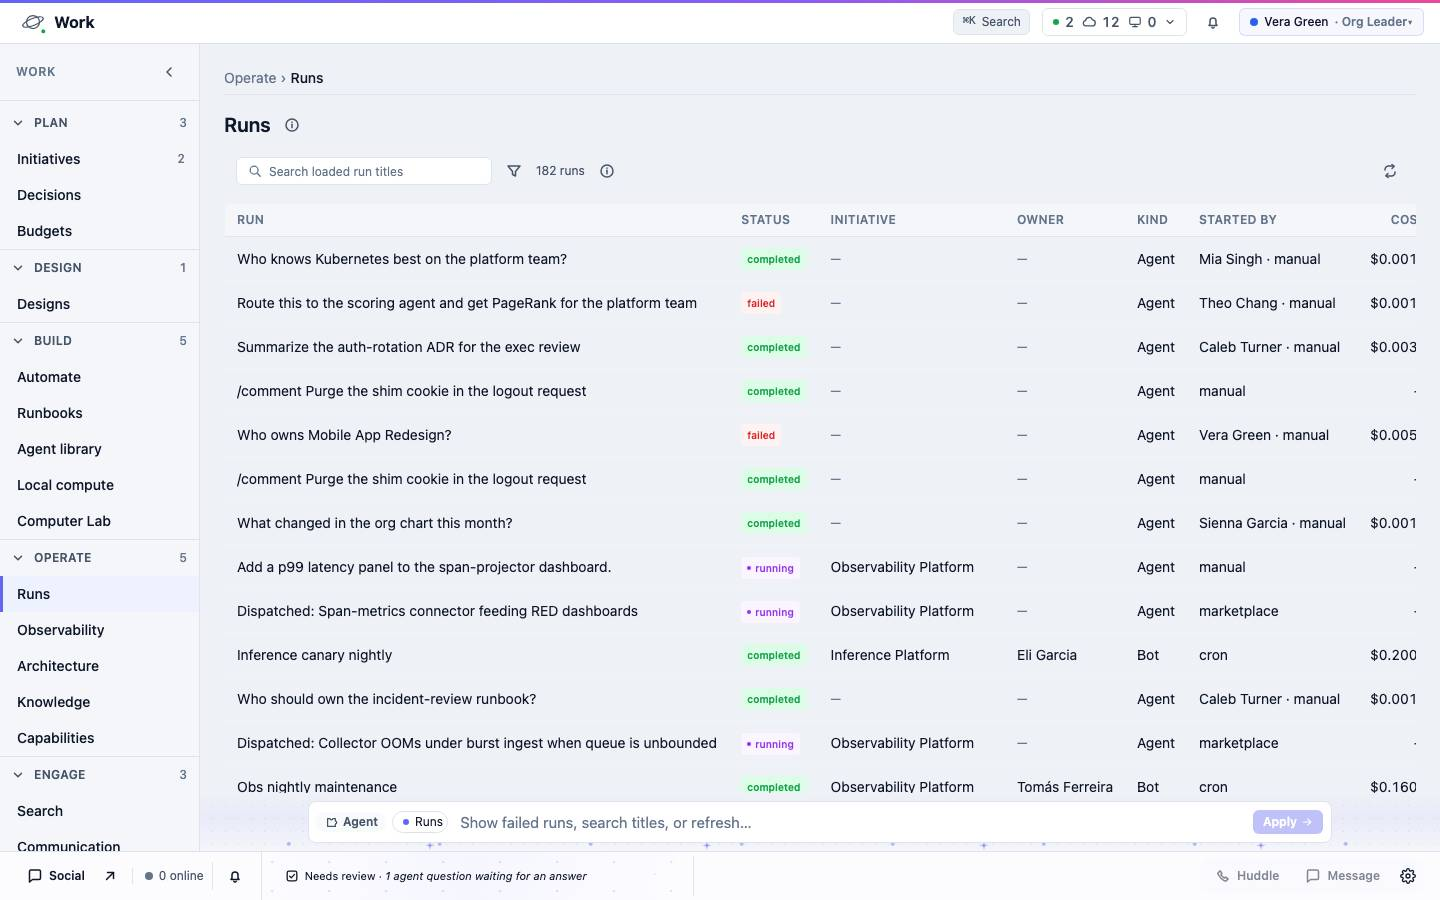
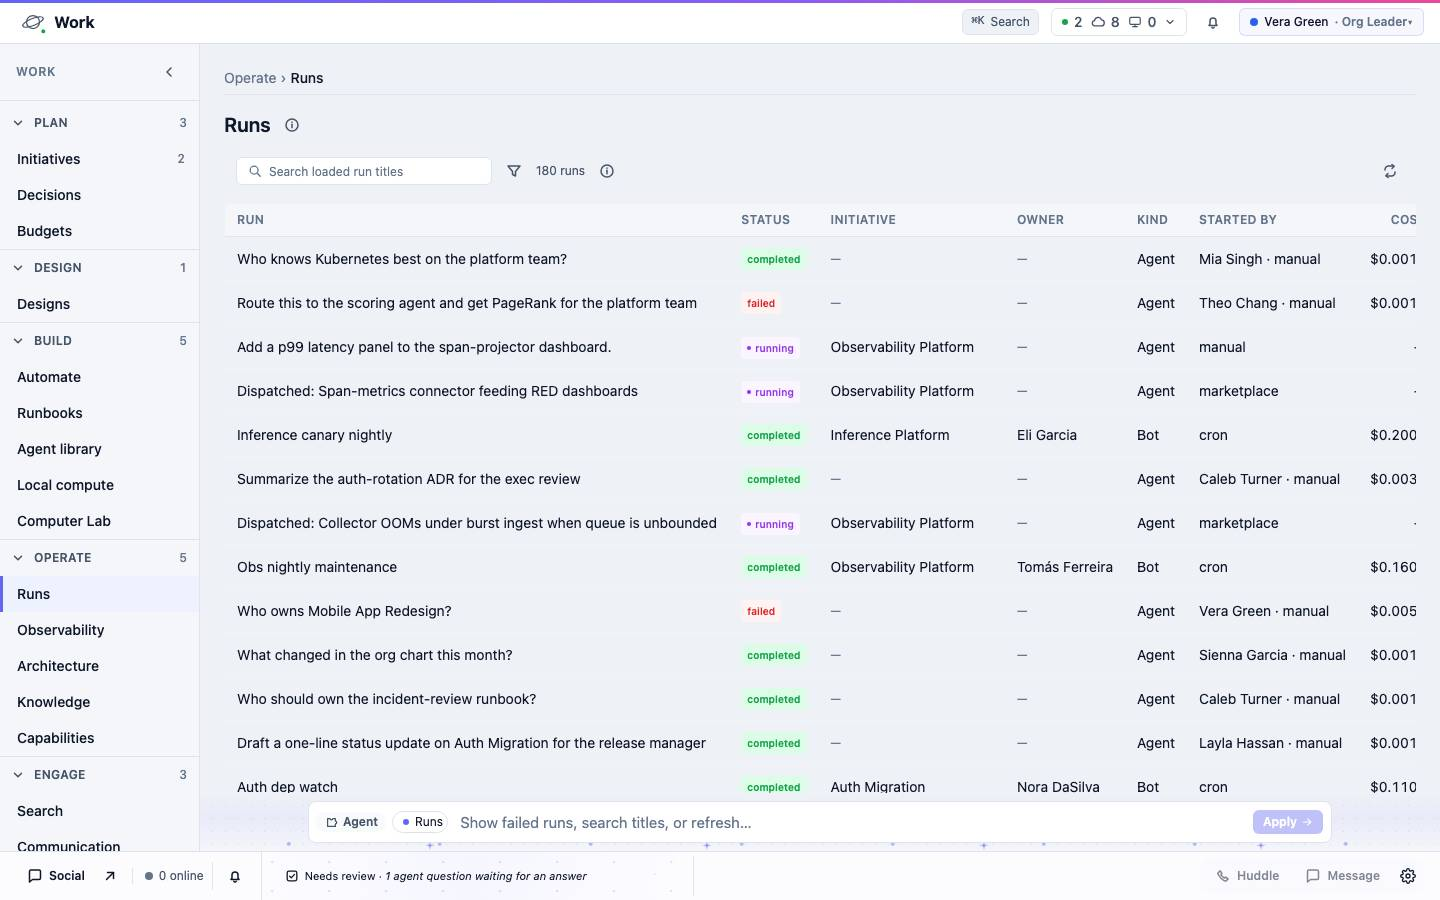
Live agent-run relay keeps scoped runs in their scope
A /comment run a scoped walk started was held in the in-memory live relay
for every reader, so another walk's empty world listed "2 runs" instead of
"No runs recorded yet". Each relayed run now remembers the dev:mock scope it
started in and is listed only there (production has no scope; nothing
changes). Test in pipeline-runs.agent.test.ts. The runs maps open a seeded
run (a live relayed run at the top of the ledger keeps ticking and never
measures still); program-owner change review expects the queue's 403 on
the way back.

diff --git a/docs/journeys/maps/work/_admin.ts b/docs/journeys/maps/work/_admin.ts
@@ -38,9 +38,9 @@ export function runs(_role: Role): Step[] {
     click(btn('Filters'), 'Open Filters again to clear them', { visible: [btn('Clear filters')] }),
     click(btn('Clear filters'), 'Clear filters: every run is back and the header count is in the hundreds again', { visible: [seen(/^\d{3} runs$/)], count: [{ target: tableRows, min: 20 }] }),
     fill(search('Search loaded run titles'), 'auth-rotation', 'Search auth-rotation: the ADR summaries stay', { visible: [seen('Summarize the auth-rotation ADR for the exec review')], count: [{ target: tableRows, min: 1 }] }, { state: 'filtered', proves: 'empty-state' }),
-    fill(search('Search loaded run titles'), '', 'Clear the search: the rows come back', { count: [{ target: tableRows, min: 20 }] }),
-    press('Enter', 'Enter on the first run opens its record', { url: /^\/iq\/runs\/[^/]+$/, visible: [h1('Run')] }, { target: firstRow, state: 'row-open', proves: 'keyboard' }),
-    back('Browser Back returns to the ledger', { url: '/iq/runs', visible: [h1('Runs')] }),
+    // Enter while the search holds the seeded ADR runs: a live relayed run at the top of the full ledger keeps ticking, so its record never measures still.
+    press('Enter', 'Enter on the first auth-rotation run opens its record', { url: /^\/iq\/runs\/[^/]+$/, visible: [h1('Run'), seen(/auth-rotation/)] }, { target: firstRow, state: 'row-open', proves: 'keyboard' }),
+    back('Browser Back returns to the ledger', { url: /^\/iq\/runs(?:\?.*)?$/, visible: [h1('Runs')] }),
     open('/iq/runs/job:job-obs-maint-1', 'Open the nightly maintenance run: who ran it, what it cost and its steps, by name', {
       url: '/iq/runs/job:job-obs-maint-1', visible: [h1('Run'), seen('Obs nightly maintenance'), seen('completed'), tabNamed('Run'), tabNamed('Brief'), seen('Steps')],
       count: [{ target: tableRows, min: 5 }], ...selected(tabNamed('Run')),

diff --git a/middleware/src/lib/agent-runs-live.ts b/middleware/src/lib/agent-runs-live.ts
@@ -18,6 +18,7 @@
 // one process's view is the whole view.
 
 import type { AgentStepRecord, LiveAgentRunSource } from './pipeline-runs.js';
+import { currentMockScope } from '../mock/core/scope.js';
 
 const MAX_RUNS = 200;
 
@@ -94,7 +95,15 @@ export class AguiStepRecorder {
 interface LiveRun {
   source: Omit<LiveAgentRunSource, 'steps'>;
   recorder: AguiStepRecorder;
+  /** The dev:mock scope the run started in (null outside one, and always in production). */
+  scope: string | null;
 }
+
+// A run relayed inside a request-scoped mock world belongs to that world: the
+// shared mock never lists it and another scope never sees it (a scoped walk's
+// /comment run used to appear under an empty scope's "no runs" —
+// docs/work-journeys-goal.md). Outside dev:mock there is no scope, so nothing changes.
+const scopeNow = (): string | null => currentMockScope()?.id ?? null;
 
 const runs = new Map<string, LiveRun>();
 
@@ -108,6 +117,7 @@ export function openAgentRun(init: {
     source: { ...init, prompt: init.prompt ? init.prompt.slice(0, 500) : null,
       startedAt: init.startedAt ?? new Date().toISOString(), status: 'running', finishedAt: null, error: null },
     recorder: new AguiStepRecorder(),
+    scope: scopeNow(),
   });
   while (runs.size > MAX_RUNS) {
     const oldest = runs.keys().next().value;
@@ -131,7 +141,8 @@ export function closeAgentRun(runId: string, outcome: 'completed' | 'failed', er
 
 /** The relayed runs, newest first, for the projection. */
 export function liveAgentRuns(): LiveAgentRunSource[] {
-  return [...runs.values()].reverse().map((r) => ({ ...r.source, steps: r.recorder.snapshot() }));
+  const scope = scopeNow();
+  return [...runs.values()].filter((r) => r.scope === scope).reverse().map((r) => ({ ...r.source, steps: r.recorder.snapshot() }));
 }
 
 /** Tests only. */

diff --git a/docs/journeys/maps/work/_po.ts b/docs/journeys/maps/work/_po.ts
@@ -35,7 +35,7 @@ export function poChangesReview(): JourneyMap {
     tabClick(queue, 'Click the Review queue tab (the only tab this role has): it stays selected and the header and tab strip stay put', { ...selected(queue), visible: [DENIED] }, strip(), { proves: ['tab-stability', 'role-gating'] }),
     { do: 'wait', target: { role: 'tablist' }, name: 'There is no Policies tab for this role: governance rules need ManageDevbox', proves: 'role-gating', expect: { absent: [tabNamed('Policies')], visible: [queue] } } as Step,
     open('/admin/changes/00000000-0000-0000-0000-000000000000', 'A change opened by its link is refused too: the page says this role cannot review it, with no diff and no Approve or Reject', { visible: [h1('Change review'), seen('You cannot review this change'), { role: 'button', name: 'Back to the queue' }], absent: [{ role: 'button', name: 'Approve' }, { role: 'button', name: 'Reject' }] }, { state: 'row-open', proves: 'empty-state', expectConsole: /403|404|Forbidden|Not Found/ }),
-    press('Enter', 'Enter on Back to the queue returns to the queue page', { url: '/admin/changes', visible: [h1('Changes'), DENIED] }, { target: { role: 'button', name: 'Back to the queue' }, proves: 'keyboard' }),
+    press('Enter', 'Enter on Back to the queue returns to the queue page', { url: '/admin/changes', visible: [h1('Changes'), DENIED] }, { target: { role: 'button', name: 'Back to the queue' }, proves: 'keyboard', expectConsole: /403|Forbidden/ }),
     tabWalk(6),
     scoped({ scenario: 'empty', fixture: 'sdlc-changes' }, '/admin/changes', 'In a world with no changes the page still says the queue is unreadable: the denial comes before the data', 'empty', { visible: [DENIED] }, { expectConsole: /403|Forbidden/ }),
   ]);

diff --git a/middleware/src/lib/__tests__/pipeline-runs.agent.test.ts b/middleware/src/lib/__tests__/pipeline-runs.agent.test.ts
@@ -258,3 +258,17 @@ describe('normalizeAgentSteps — the bundle is agent output, checked not truste
     expect(normalizeAgentSteps(JSON.stringify(STEPS))).toHaveLength(2);
   });
 });
+
+describe('the live relay and mock scopes', () => {
+  it('lists a run only in the scope it started in (the shared world never sees a scoped run)', async () => {
+    const live = await import('../agent-runs-live.js');
+    const scopeMod = await import('../../mock/core/scope.js');
+    live._resetLiveAgentRunsForTest();
+    const scope = scopeMod.createMockScope({ scenario: 'empty' } as never);
+    scopeMod.runInMockScope(scope, () => live.openAgentRun({ runId: 'r-scoped', threadId: null, agentId: 'a', agentName: 'A', userId: null, tenant: 'orgiq', prompt: null }));
+    live.openAgentRun({ runId: 'r-shared', threadId: null, agentId: 'a', agentName: 'A', userId: null, tenant: 'orgiq', prompt: null });
+    expect(live.liveAgentRuns().map((r) => r.runId)).toEqual(['r-shared']);
+    expect(scopeMod.runInMockScope(scope, () => live.liveAgentRuns().map((r) => r.runId))).toEqual(['r-scoped']);
+    live._resetLiveAgentRunsForTest();
+  });
+});

diff --git a/docs/work-journeys/org-leader/runs.md b/docs/work-journeys/org-leader/runs.md
@@ -1,21 +1,21 @@
 surface: runs
 role: org-leader
 user: u-vera (Vera Green, owner of Auth Migration)
-url: /iq/runs; /iq/runs/agent-run%3A79eed77e-7aee-4911-a7ee-d45878eed5eb; /iq/runs/job:job-obs-maint-1; /iq/runs/job:job-obs-maint-1?tab=brief; /iq/runs/nope
+url: /iq/runs; /iq/runs/agent-run%3A987dfeaf-977d-4d1c-aa7e-01d5997e0042; /iq/runs/job:job-obs-maint-1; /iq/runs/job:job-obs-maint-1?tab=brief; /iq/runs/nope
 map: docs/journeys/maps/work/org-leader/runs.ts
 pages: portal/src/pages/iq/RunsPage.tsx, portal/src/components/runs/RunsLedger.tsx, portal/src/pages/pipelines/RunDetailPage.tsx
-audited: 2026-10-16 04:19–04:20 local, Chromium 148.0.7778.96 1440x900 (scripts/journeys/run-maps.mjs: Playwright headless, a fresh context signed in through portal/e2e/realSession.ts as clone u-vera-clone-98243966), scenario: the shared mock, read-only (every non-GET the page sent was blocked), middleware dev:mock :3001, Vite :5183, ui-components 2.458.2
-session: /api/session/me sub u-vera-clone-98243966, tenant orgiq, role org-leader, grants {"orgiq":["org-leader","member"],"social":["participant"],"access":["approver"]}
+audited: 2026-10-16 04:32–04:32 local, Chromium 148.0.7778.96 1440x900 (scripts/journeys/run-maps.mjs: Playwright headless, a fresh context signed in through portal/e2e/realSession.ts as clone u-vera-clone-9cf8cfc2), scenario: the shared mock, read-only (every non-GET the page sent was blocked), middleware dev:mock :3001, Vite :5183, ui-components 2.460.1
+session: /api/session/me sub u-vera-clone-9cf8cfc2, tenant orgiq, role org-leader, grants {"orgiq":["org-leader","member"],"social":["participant"],"access":["approver"]}
 screenshot: runs.jpg
-verdict: fail — 1 of 21 steps failed; step 21 (In a world with no runs the table says none are recorded): not visible: main :visible:has-text("No runs recorded yet.")
+verdict: pass
 console errors: 0 unexpected; 5 expected by the map (Failed to load resource: the server responded with a status of 404 (Not Found) | Failed to load resource: the server responded with a status of 500 (Internal Ser)
-layout: pass — ui-dom-audit 0 failing findings at 19 measured step(s) (burn-down findings are listed under dom-audit:); at /iq/runs: no horizontal scroll (1440/1440), 1 h1 "Runs" 20/600 at 224/111, table body rows 44px ×25, first-row-top: 237px, composer at y 793–851 of 900
-keyboard: pass — Escape closes the Filters popover; Enter on the first run opens its record; Tab from the top of the page: the controls take focus in turn (Tab visited 16 distinct visible controls of 18 focusable, focus lost 1×)
-empty-state: fail — step 21 (In a world with no runs the table says none are recorded): not visible: main :visible:has-text("No runs recorded yet.")
+layout: pass — ui-dom-audit 0 failing findings at 18 measured step(s) (burn-down findings are listed under dom-audit:); at /iq/runs: no horizontal scroll (1440/1440), 1 h1 "Runs" 20/600 at 224/111, table body rows 44px ×25, first-row-top: 237px, composer at y 793–851 of 900
+keyboard: pass — Escape closes the Filters popover; Enter on the first auth-rotation run opens its record; Tab from the top of the page: the controls take focus in turn (Tab visited 16 distinct visible controls of 18 focusable, focus lost 1×)
+empty-state: pass — Search zzzzqq among the failed runs: the table says no run matches; Search auth-rotation: the ADR summaries stay; Click the Brief tab: it says no brief was frozen and the header and tab strip stay put (3 box(es) held still); Open a run that does not exist: the page says so and offers the ledger; When the job source cannot be read the ledger names it instead of quietly showing fewer runs (mock scope {"scenario":"error","fixture":"agent-jobs"}); In a world with no runs the table says none are recorded (mock scope {"scenario":"empty"})
 role-gating: pass — This role may read the run ledger: GET /api/runs answers 200 (GET /api/runs?limit=1 → 200)
 story-facts: pass — Open Runs: every run the workspace made, a header count that agrees with the table, people by name; Open the nightly maintenance run: who ran it, what it cost and its steps, by name
 tab-stability: pass — Click the Brief tab: it says no brief was frozen and the header and tab strip stay put (3 box(es) held still); Click the Run tab: the steps are back and nothing else moves (3 box(es) held still)
-dom-audit: 0 failing finding(s) at 19 measured step(s); 66 more owed by docs/journeys/audit-burndown.tsv (a11y.contrast ×62, composer.presence ×1, a11y.heading-order ×3) — ui-dom-audit measureDOM, contract Work shared UI compact layout d2d16ad077a348fe
+dom-audit: 0 failing finding(s) at 18 measured step(s); 60 more owed by docs/journeys/audit-burndown.tsv (a11y.contrast ×57, a11y.heading-order ×3) — ui-dom-audit measureDOM, contract Work shared UI compact layout d2d16ad077a348fe
 notes: Vera Green, owner of Auth Migration: Agent runs: status and kind, search, open the run record and its brief, a missing run, the empty and error worlds. Generated by the runner from the map; every field above was observed in this run (steps below; per-step screenshots in .scratch/journeys/work/org-leader/runs).
 
 ## Steps
@@ -33,13 +33,12 @@ notes: Vera Green, owner of Auth Migration: Agent runs: status and kind, search,
 | 9 | Open Filters again to clear them |  | pass | 0 finding(s) | /iq/runs |
 | 10 | Clear filters: every run is back and the header count is in the hundreds again |  | pass | 0 finding(s) | /iq/runs |
 | 11 | Search auth-rotation: the ADR summaries stay | filtered | pass | 0 finding(s) | /iq/runs |
-| 12 | Clear the search: the rows come back |  | pass | 0 finding(s) | /iq/runs |
-| 13 | Enter on the first run opens its record | row-open | pass | 0 finding(s) | /iq/runs/agent-run%3A79eed77e-7aee-4911-a7ee-d45878eed5eb |
-| 14 | Browser Back returns to the ledger |  | pass | 0 finding(s) | /iq/runs |
-| 15 | Open the nightly maintenance run: who ran it, what it cost and its steps, by name | row-open | pass | 0 finding(s) | /iq/runs/job:job-obs-maint-1 |
-| 16 | Click the Brief tab: it says no brief was frozen and the header and tab strip stay put (3 box(es) held still) |  | pass | 0 finding(s) | /iq/runs/job:job-obs-maint-1?tab=brief |
-| 17 | Click the Run tab: the steps are back and nothing else moves (3 box(es) held still) |  | pass | 0 finding(s) | /iq/runs/job:job-obs-maint-1 |
-| 18 | Tab from the top of the page: the controls take focus in turn (Tab visited 16 distinct visible controls of 18 focusable, focus lost 1×) |  | pass | — | /iq/runs/job:job-obs-maint-1 |
-| 19 | Open a run that does not exist: the page says so and offers the ledger | not-found | pass | 0 finding(s) | /iq/runs/nope |
-| 20 | When the job source cannot be read the ledger names it instead of quietly showing fewer runs (mock scope {"scenario":"error","fixture":"agent-jobs"}) | error | pass | 0 finding(s) | /iq/runs |
-| 21 | In a world with no runs the table says none are recorded (mock scope {"scenario":"empty"}) | empty | fail: not visible: main :visible:has-text("No runs recorded yet.") | 0 finding(s) | /iq/runs |
+| 12 | Enter on the first auth-rotation run opens its record | row-open | pass | 0 finding(s) | /iq/runs/agent-run%3A987dfeaf-977d-4d1c-aa7e-01d5997e0042 |
+| 13 | Browser Back returns to the ledger |  | pass | 0 finding(s) | /iq/runs |
+| 14 | Open the nightly maintenance run: who ran it, what it cost and its steps, by name | row-open | pass | 0 finding(s) | /iq/runs/job:job-obs-maint-1 |
+| 15 | Click the Brief tab: it says no brief was frozen and the header and tab strip stay put (3 box(es) held still) |  | pass | 0 finding(s) | /iq/runs/job:job-obs-maint-1?tab=brief |
+| 16 | Click the Run tab: the steps are back and nothing else moves (3 box(es) held still) |  | pass | 0 finding(s) | /iq/runs/job:job-obs-maint-1 |
+| 17 | Tab from the top of the page: the controls take focus in turn (Tab visited 16 distinct visible controls of 18 focusable, focus lost 1×) |  | pass | — | /iq/runs/job:job-obs-maint-1 |
+| 18 | Open a run that does not exist: the page says so and offers the ledger | not-found | pass | 0 finding(s) | /iq/runs/nope |
+| 19 | When the job source cannot be read the ledger names it instead of quietly showing fewer runs (mock scope {"scenario":"error","fixture":"agent-jobs"}) | error | pass | 0 finding(s) | /iq/runs |
+| 20 | In a world with no runs the table says none are recorded (mock scope {"scenario":"empty"}) | empty | pass | 0 finding(s) | /iq/runs |

diff --git a/docs/work-journeys/program-owner/changes-review.md b/docs/work-journeys/program-owner/changes-review.md
@@ -4,18 +4,18 @@ user: u-mia (Mia Singh, program owner)
 url: /admin/changes; /admin/changes/00000000-0000-0000-0000-000000000000
 map: docs/journeys/maps/work/program-owner/changes-review.ts
 pages: portal/src/pages/admin/ChangesPage.tsx
-audited: 2026-10-16 03:25–03:25 local, Chromium 148.0.7778.96 1440x900 (scripts/journeys/run-maps.mjs: Playwright headless, a fresh context signed in through portal/e2e/realSession.ts as clone u-mia-clone-4c9d2271), scenario: the shared mock, read-only (every non-GET the page sent was blocked), middleware dev:mock :3001, Vite :5183, ui-components 2.458.2
-session: /api/session/me sub u-mia-clone-4c9d2271, tenant orgiq, role program-owner, grants {"orgiq":["program-owner","member"],"social":["participant"]}
+audited: 2026-10-16 04:33–04:33 local, Chromium 148.0.7778.96 1440x900 (scripts/journeys/run-maps.mjs: Playwright headless, a fresh context signed in through portal/e2e/realSession.ts as clone u-mia-clone-202b213a), scenario: the shared mock, read-only (every non-GET the page sent was blocked), middleware dev:mock :3001, Vite :5183, ui-components 2.460.1
+session: /api/session/me sub u-mia-clone-202b213a, tenant orgiq, role program-owner, grants {"orgiq":["program-owner","member"],"social":["participant"]}
 screenshot: changes-review.jpg
-verdict: fail — 1 of 10 steps failed; step 8 (Enter on Back to the queue returns to the queue page): console error: Failed to load resource: the server responded with a status of 403 (Forbidden) [403 GET /api/sdlc/changes]
-console errors: 1 — Failed to load resource: the server responded with a status of 403 (Forbidden) [403 GET /api/sdlc/changes] unexpected; 3 expected by the map (Failed to load resource: the server responded with a status of 403 (Forbidden))
+verdict: pass
+console errors: 0 unexpected; 4 expected by the map (Failed to load resource: the server responded with a status of 403 (Forbidden))
 layout: pass — ui-dom-audit 0 failing findings at 8 measured step(s) (burn-down findings are listed under dom-audit:); at /admin/changes: no horizontal scroll (1440/1440), 1 h1 "Changes" 20/600 at 444/76, first-row-top: 811px, composer at y 793–851 of 900
-keyboard: fail — step 8 (Enter on Back to the queue returns to the queue page): console error: Failed to load resource: the server responded with a status of 403 (Forbidden) [403 GET /api/sdlc/changes]
+keyboard: pass — Enter on Back to the queue returns to the queue page; Tab from the top of the page: the controls take focus in turn (Tab visited 39 distinct visible controls of 43 focusable, focus lost 1×)
 empty-state: pass — Search dedup: the denial stays, the search finds nothing to filter; A change opened by its link is refused too: the page says this role cannot review it, with no diff and no Approve or Reject; In a world with no changes the page still says the queue is unreadable: the denial comes before the data (mock scope {"scenario":"empty","fixture":"sdlc-changes"})
 role-gating: pass — Open Changes: the page says the queue is unreadable (not empty), offers only the Review queue tab and no decision buttons; GET /api/sdlc/changes answers 403: the review queue needs ManageDevbox, which this role does not hold (GET /api/sdlc/changes → 403); Click the Review queue tab (the only tab this role has): it stays selected and the header and tab strip stay put (3 box(es) held still); There is no Policies tab for this role: governance rules need ManageDevbox
 story-facts: pass — Open Changes: the page says the queue is unreadable (not empty), offers only the Review queue tab and no decision buttons
 tab-stability: pass — Click the Review queue tab (the only tab this role has): it stays selected and the header and tab strip stay put (3 box(es) held still)
-dom-audit: 0 failing finding(s) at 8 measured step(s); 17 more owed by docs/journeys/audit-burndown.tsv (a11y.contrast ×9, a11y.landmarks ×8) — ui-dom-audit measureDOM, contract Work shared UI compact layout 441f4fa4c88814c2; composer policy unclassified at step(s) 7
+dom-audit: 0 failing finding(s) at 8 measured step(s); 17 more owed by docs/journeys/audit-burndown.tsv (a11y.contrast ×9, a11y.landmarks ×8) — ui-dom-audit measureDOM, contract Work shared UI compact layout d2d16ad077a348fe; composer policy unclassified at step(s) 7
 notes: Mia Singh, program owner: Code review: this role cannot read the review queue, and the page says so instead of showing an empty one. Generated by the runner from the map; every field above was observed in this run (steps below; per-step screenshots in .scratch/journeys/work/program-owner/changes-review).
 
 ## Steps
@@ -29,6 +29,6 @@ notes: Mia Singh, program owner: Code review: this role cannot read the review q
 | 5 | Click the Review queue tab (the only tab this role has): it stays selected and the header and tab strip stay put (3 box(es) held still) |  | pass | 0 finding(s) | /admin/changes |
 | 6 | There is no Policies tab for this role: governance rules need ManageDevbox |  | pass | 0 finding(s) | /admin/changes |
 | 7 | A change opened by its link is refused too: the page says this role cannot review it, with no diff and no Approve or Reject | row-open | pass | 0 finding(s) | /admin/changes/00000000-0000-0000-0000-000000000000 |
-| 8 | Enter on Back to the queue returns to the queue page |  | fail: console error: Failed to load resource: the server responded with a status of 403 (Forbidden) [403 GET /api/sdlc/changes] | 0 finding(s) | /admin/changes |
+| 8 | Enter on Back to the queue returns to the queue page |  | pass | 0 finding(s) | /admin/changes |
 | 9 | Tab from the top of the page: the controls take focus in turn (Tab visited 39 distinct visible controls of 43 focusable, focus lost 1×) |  | pass | — | /admin/changes |
 | 10 | In a world with no changes the page still says the queue is unreadable: the denial comes before the data (mock scope {"scenario":"empty","fixture":"sdlc-changes"}) | empty | pass | 0 finding(s) | /admin/changes |
